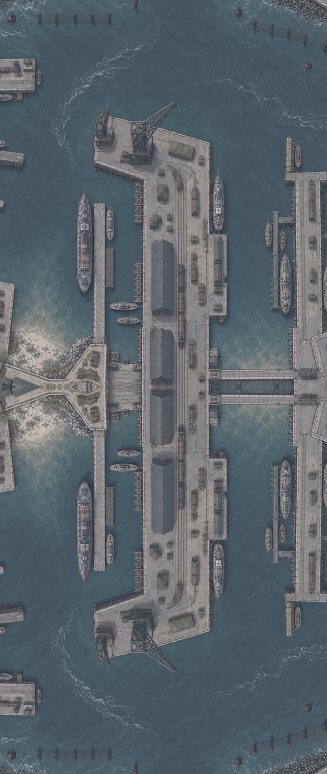
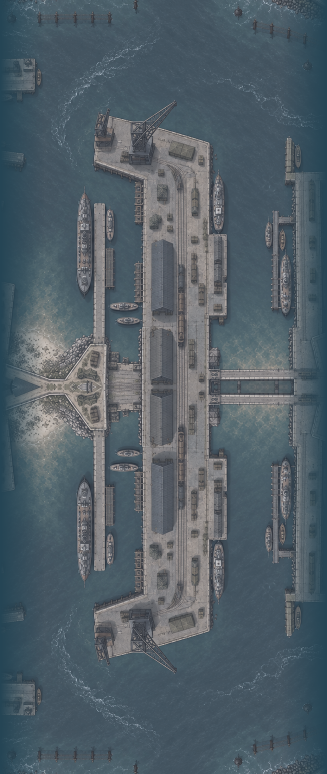
zeebrugge: baked water edge, no feather

Changed region(s): [[0.8869, 0.0, 1.0, 1.0], [0.0, 0.0, 0.1223, 1.0]]

diff --git a/app.js b/app.js
@@ -347,14 +347,8 @@ function paintZeebrugge(cx,cy,W,H){
    ctx.drawImage(img,dx,Math.round(wy-camera.y),dw,dh);
   }
   ctx.restore();
-  // Melt the strip's hard rim into the surrounding sea.
-  const feather=Math.min(110,dw*.24);
-  const gl=ctx.createLinearGradient(dx,0,dx+feather,0);
-  gl.addColorStop(0,'rgba(37,69,85,1)');gl.addColorStop(1,'rgba(37,69,85,0)');
-  ctx.fillStyle=gl;ctx.fillRect(dx,0,feather,H);
-  const gr=ctx.createLinearGradient(dx+dw-feather,0,dx+dw,0);
-  gr.addColorStop(0,'rgba(37,69,85,0)');gr.addColorStop(1,'rgba(37,69,85,1)');
-  ctx.fillStyle=gr;ctx.fillRect(dx+dw-feather,0,feather,H);
+  // The strip's outer columns are baked open water, so the rim lands on the
+  // sea terrain without a feather pass — no dissolving fragments.
   if(route){
    const a=Number.isFinite(route.a)?route.a:-Math.PI/2,hx=Math.cos(a),hy=Math.sin(a),nx=-hy,ny=hx;
    const point=(s,n)=>{const wx=route.x+hx*s+nx*n,wy=route.y+hy*s+ny*n;return [wx-camera.x,wy-camera.y];};
